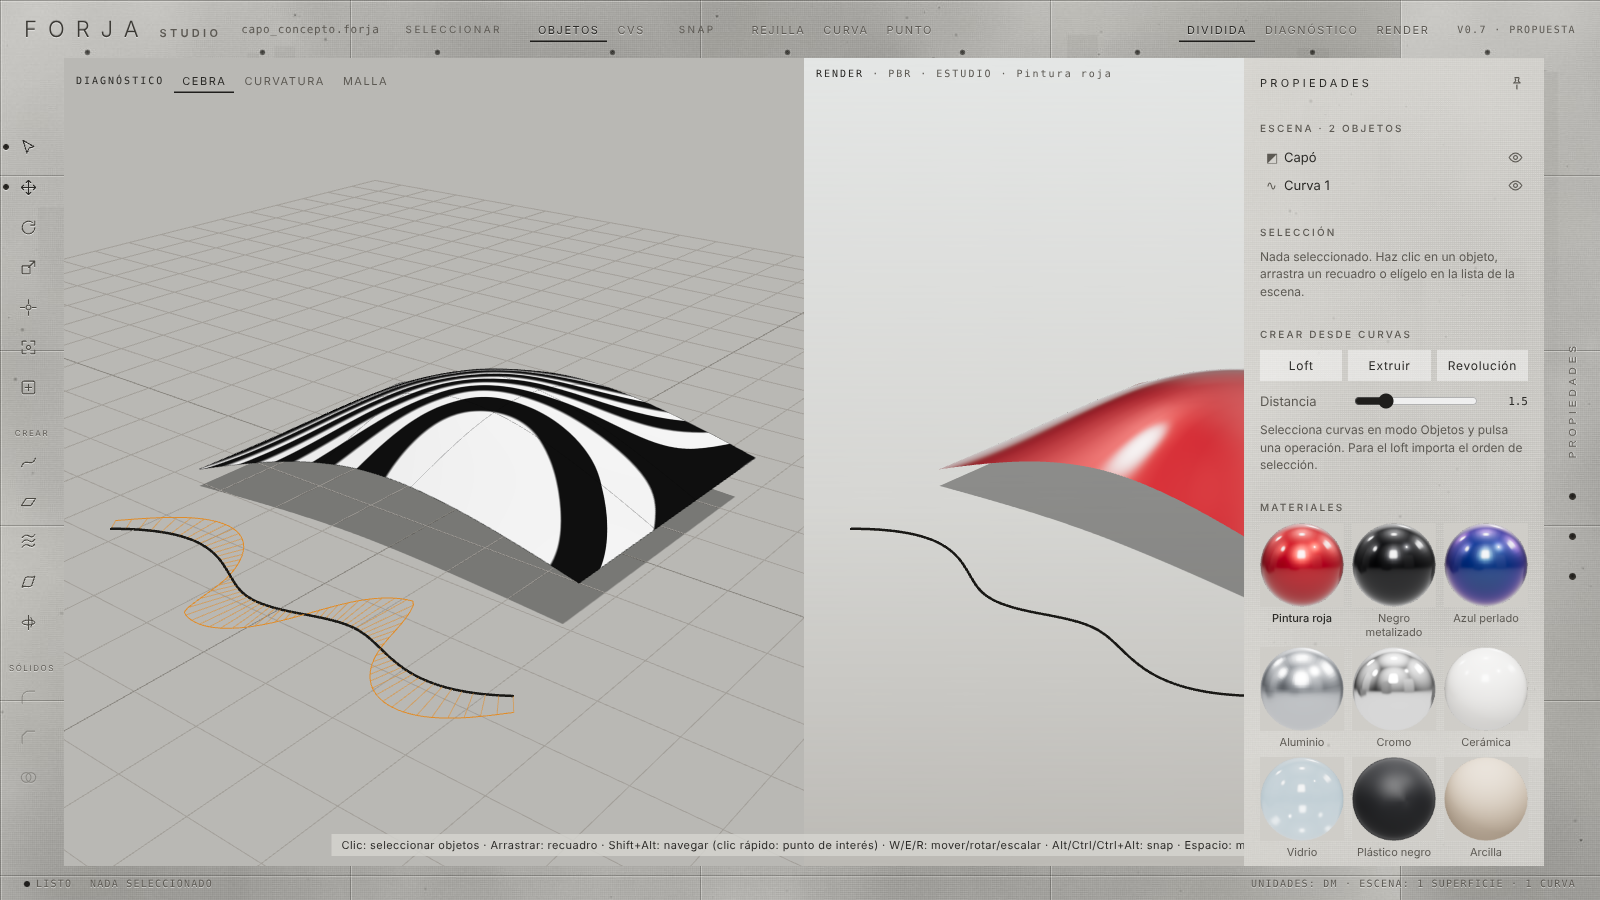
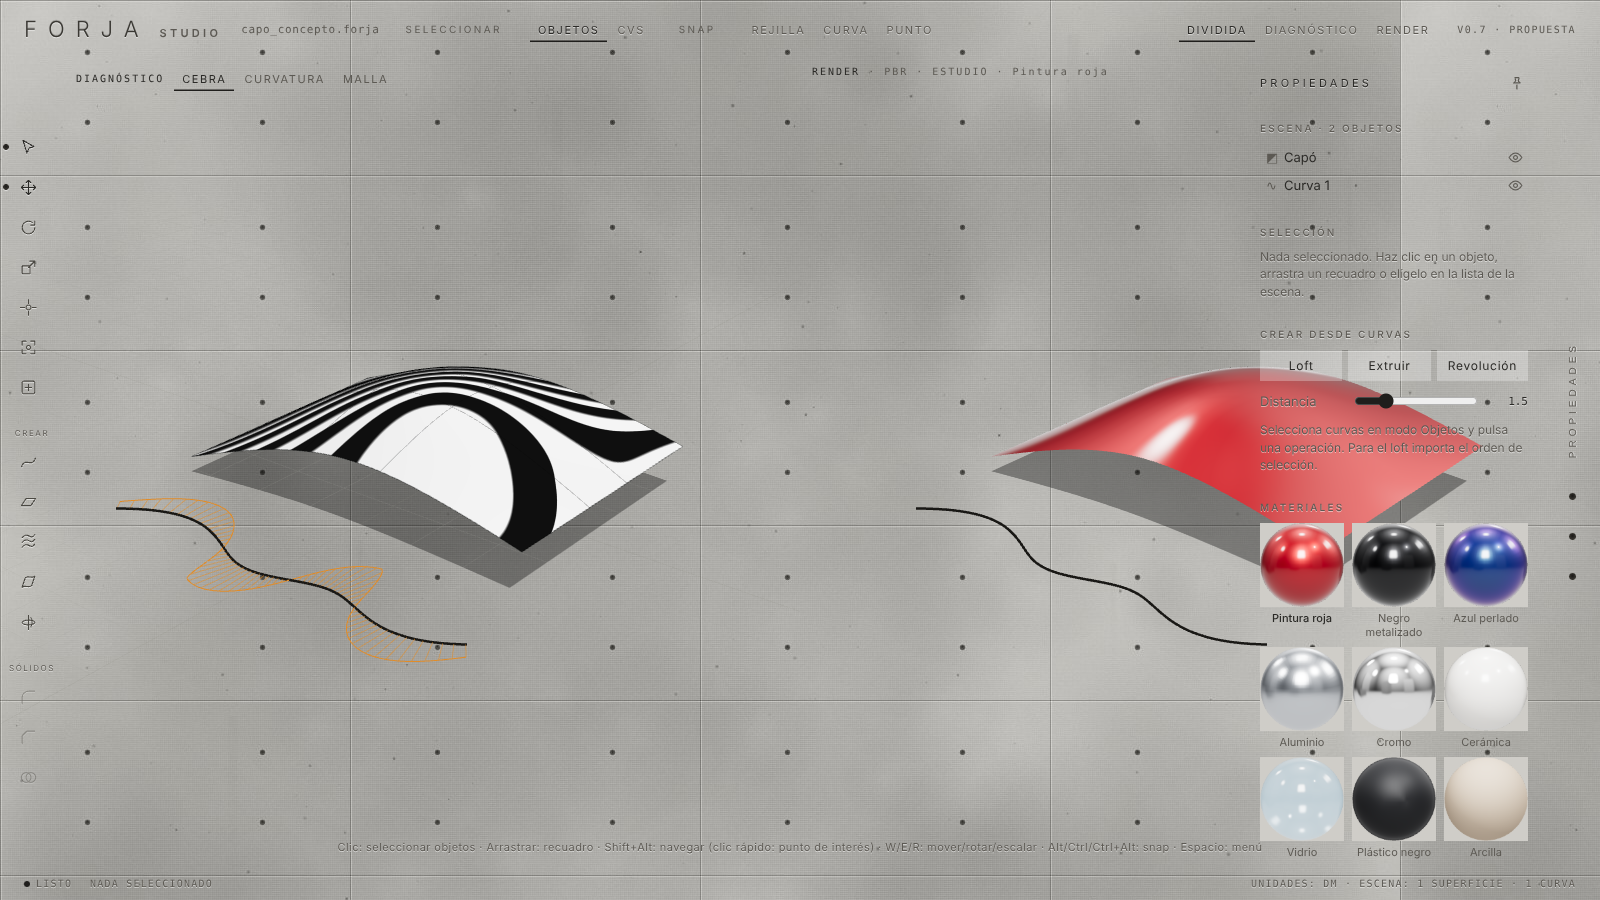
Interfaz de hormigón: vista 3D transparente sobre el muro, una sola imagen sin separación
Claude-Session: https://claude.ai/code/session_01GFT2bY11zXSFbQuxHpDENA

diff --git a/src/main.js b/src/main.js
@@ -15,7 +15,9 @@ const view = $('view');
 const app = $('app');
 
 // ---------- Renderer y escena ----------
-const renderer = new THREE.WebGLRenderer({ antialias: true, preserveDrawingBuffer: true });
+// Lienzo transparente: el muro de hormigón de la página se ve detrás del modelo (una sola imagen)
+const renderer = new THREE.WebGLRenderer({ antialias: true, preserveDrawingBuffer: true, alpha: true });
+renderer.setClearColor(0x000000, 0);
 renderer.setPixelRatio(Math.min(devicePixelRatio, 2));
 renderer.toneMapping = THREE.ACESFilmicToneMapping;
 renderer.shadowMap.enabled = true;
@@ -55,6 +57,7 @@ scene.add(ground);
 const grid = new THREE.GridHelper(30, 30, 0x8a8781, 0xa3a09a);
 grid.position.y = 0.001;
 grid.layers.set(DIAG);
+grid.material.transparent = true; grid.material.opacity = 0.22;
 scene.add(grid);
 const gridXY = new THREE.GridHelper(30, 30, 0x4a3a22, 0x2a251d);
 gridXY.rotation.x = Math.PI / 2;
@@ -984,7 +987,7 @@ function frameObjects(list) {
   const c = box.getCenter(new THREE.Vector3()), rad = box.getSize(new THREE.Vector3()).length() / 2;
   const p = panes()[0], vf = THREE.MathUtils.degToRad(camera.fov) / 2;
   const hf = Math.atan(Math.tan(vf) * (p.w / p.h));
-  const dist = rad / Math.sin(Math.min(vf, hf)) * 1.05;
+  const dist = rad / Math.sin(Math.min(vf, hf)) * 1.3; // margen: los menús grabados quedan encima de la vista
   pivot.copy(c);
   camera.position.copy(c).addScaledVector(viewDir(), -dist);
 }
@@ -1020,8 +1023,10 @@ addEventListener('pointermove', (e) => {
   if (pinned) return;
   const r = view.getBoundingClientRect(), panel = $('panel'), tools = $('tools');
   const busy = e.buttons !== 0;
-  if (e.clientX > r.right + 8 && e.clientY > r.top && e.clientY < r.bottom) panel.classList.add('show');
-  else if (!busy && panel.classList.contains('show') && e.clientX < r.right - panel.offsetWidth - 40) panel.classList.remove('show');
+  // El muro derecho (últimos 56 px) abre la losa; se cierra al alejarse de ella
+  const edge = innerWidth - 56;
+  if (e.clientX > edge && e.clientY > 58 && e.clientY < innerHeight - 34) panel.classList.add('show');
+  else if (!busy && panel.classList.contains('show') && e.clientX < edge - panel.offsetWidth - 40) panel.classList.remove('show');
   if (e.clientX < r.left + 64 && e.clientY > r.top && e.clientY < r.bottom) tools.classList.add('show');
   else if (!busy && e.clientX > r.left + 140) tools.classList.remove('show');
 });
@@ -1386,7 +1391,7 @@ function renderPane(p) {
   const diag = p.kind === 'diag';
   const dm = diagMaterial();
   objects.forEach((o) => { if (o.kind === 'surface') o.parts.mesh.material = diag ? dm : materials[o.mat]; });
-  scene.background = diag ? diagBg : renderBg;
+  scene.background = null;
   camera.layers.set(0);
   if (diag) camera.layers.enable(DIAG);
   renderer.render(scene, camera);

diff --git a/index.html b/index.html
@@ -316,6 +316,21 @@
   .tools hr { box-shadow: none; border-top-color: transparent; }
   .mat[aria-pressed="true"] img { box-shadow: none; outline: 0; }
   .mat[aria-pressed="true"] { color: var(--fg); font-weight: 500; }
+
+  /* Una sola imagen: la vista 3D ocupa todo el muro y los menús quedan grabados encima */
+  .view { grid-row: 1 / -1; grid-column: 1 / -1; z-index: 0; background: transparent; }
+  .top, .tools, .wall-right, .status { z-index: 2; position: relative; }
+  .tools, .app.auto .tools { top: auto; left: auto; transform: none; }
+  .pane.right { border: 0; }
+  .pane-head { top: 66px; }
+  .pane.left .pane-head, .pane.full .pane-head { left: 76px; }
+  .pane .legend { top: 70px; right: 70px; }
+  .hint { bottom: 42px; background: transparent; text-shadow: 0 1px 0 var(--engrave-light); color: var(--muted); }
+  .toast { bottom: 64px; }
+  .panel, .app.auto .panel { background: transparent; right: 56px; }
+  .panel .sec, .panel-head { text-shadow: 0 1px 0 var(--engrave-light); }
+  .btn, .coord, select.sel, .grid4 select, .grid4 input { background: rgba(255,255,255,.28); }
+  .mat img { mix-blend-mode: multiply; }
 </style>
 </head>
 <body>

diff --git a/src/concrete.js b/src/concrete.js
@@ -25,10 +25,10 @@ export function concreteTexture({ w = 1400, h = 1050, base = '#c7c5c0', seed = 7
     g.fillRect(x - rad, y - rad, rad * 2, rad * 2);
   }
   // Escurrimientos verticales de humedad
-  for (let i = 0; i < 26; i++) {
-    const x = r() * w, y = r() * h * 0.7, len = 80 + r() * 320, wd = 6 + r() * 26;
+  for (let i = 0; i < 10; i++) {
+    const x = r() * w, y = r() * h * 0.7, len = 60 + r() * 200, wd = 3 + r() * 10;
     const grd = g.createLinearGradient(0, y, 0, y + len);
-    grd.addColorStop(0, `rgba(60,56,50,${0.05 * mottle})`);
+    grd.addColorStop(0, `rgba(60,56,50,${0.025 * mottle})`);
     grd.addColorStop(1, 'rgba(60,56,50,0)');
     g.fillStyle = grd;
     g.fillRect(x, y, wd, len);
